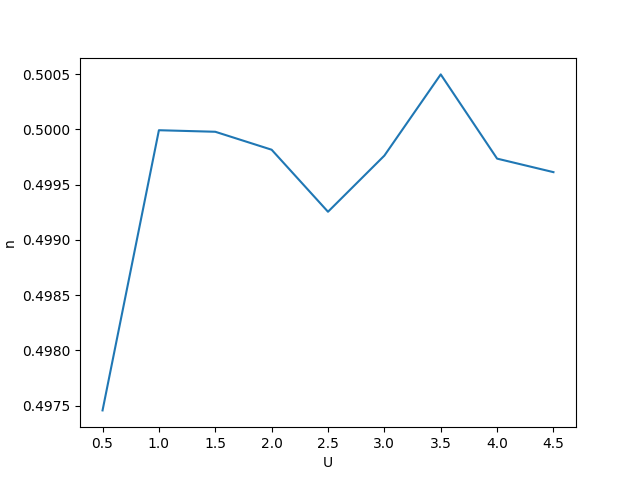
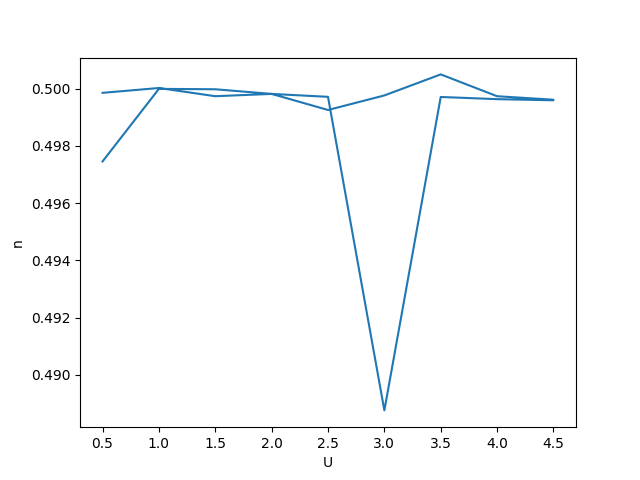
kinetic energy

diff --git a/matsubara_w/ipt_imag_HM.py b/matsubara_w/ipt_imag_HM.py
@@ -151,25 +151,37 @@ def epot(g_iw, s_iw, u, beta, w_n):
     return (s_iw * g_iw + u**2 / 4. / w_n**2).real.sum() / beta - beta * u**2 / 32. + u / 8
 
 
+# Parameters
+beta = 50.0 # 1/T
+t = 0.5     # Hopping
+Nwn = 256   # Num of freq: Check if it is consistent with FFT criteria
 
-beta = 50.0
-t = 0.5
-Nwn = 256 # check whther this no is consistent with the FFT criteria
+U_list = np.arange(0.5, 5.0, 0.125) # Interaction strength
+U_print = np.arange(0.5, 5.0, 0.5)  # Values when obs should be computed
+
+# Hysteresis
+hyst = 1
+if (hyst):
+    U_list = np.append(U_list, np.arange(5.0, 0.375, -0.125))
+    U_print = np.append(U_print, U_print[::-1])
+
+dw = 0.01                       # Real freq differential
+w = np.arange(-15, 15, dw)      # Real freq
+de = t/10                       # Energy differential
+e = np.arange(-2*t, 2*t, de)    # Energy
+
 tau, wn = gf. tau_wn_setup(beta,Nwn)
 G_iwn = gf.greenF(wn, sigma=0, mu=0, D=1)
 
-U_list = np.arange(0.5, 5.0, 0.125)
-U_print = np.arange(0.5, 5.0, 0.5)
-dw = 0.01
-w = np.arange(-15, 15, dw)
-
+# Observables
 dos_U = []
 n_U = []
+Ekin_U = []
 
 # Main loop
 for U in U_list:
     G_iwn, Sig_iwn = dmft_loop(U, t, G_iwn, wn, tau, mix=1, conv=1e-3)
-   
+    
     if U in U_print:
         # Analytic continuation using Pade
         g_w = gf.pade_continuation(G_iwn, wn, w, w_set=None)
@@ -180,10 +192,19 @@ for U in U_list:
         # Electron concentration for temp 1/beta and energy w_range
         n = np.sum(-g_w.imag/np.pi * gf.fermi_dist(w, beta) * dw)
         n_U.append(n)
+        
+        # Kinetic energy
+        Ekin = 0
+        # Sum over Matsubara freq
+        for n in range(Nwn):
+            # Integral in epsilong
+            Ekin += 1/beta * np.sum(de * e * gf.bethe_dos(t, e) * gf.g_k_w(e, wn[n], Sig_iwn[n], mu=0))
+        Ekin_U.append(Ekin.real)
     
 # Print DOS
-fig, axs = plt.subplots(len(U_print), sharex=True, sharey=True)
-for i in range(len(U_print)):
+plots = int(len(U_print)/2) if hyst else len(U_print)
+fig, axs = plt.subplots(plots, sharex=True, sharey=True)
+for i in range(plots):
     axs[i].set(xlabel=r'$\omega$')
     axs[i].plot(w, dos_U[i])      
 
@@ -191,10 +212,17 @@ fig.supylabel(r'$\rho(\omega)$')
 plt.savefig("./figures/dos.png")
 
 # Print n
-# Save occupation number
 plt.figure(0)
 plt.xlabel('U')
 plt.ylabel('n')
 plt.plot(U_print, n_U)
 plt.savefig("./figures/n.png")
+plt.close(0)
+
+# Print kinetic energy
+plt.figure(0)
+plt.xlabel('U')
+plt.ylabel(r'$E_K$')
+plt.plot(U_print, Ekin_U)
+plt.savefig("./figures/Ekin.png")
 plt.close(0)

diff --git a/matsubara_w/common.py b/matsubara_w/common.py
@@ -88,7 +88,9 @@ def greenF(w_n, sigma=0, mu=0, D=1):
     sq = np.sqrt((zeta)**2 - D**2)
     sig = np.sign(sq.imag * w_n)
     return 2. / (zeta + sig * sq)
-
+    
+def g_k_w(e_k, w_n, sigma, mu=0):
+    return 1/(1.j*w_n + mu - e_k - sigma)
 
 def semi_circle_hiltrans(zeta, D=1):
     """Calculate the Hilbert transform with a semicircular DOS
@@ -106,6 +108,10 @@ def semi_circle(energy, hopping):
     """Bethe lattice in inf dim density of states"""
     energy = np.asarray(energy).clip(-2 * hopping, 2 * hopping)
     return np.sqrt(4 * hopping**2 - energy**2) / (2 * np.pi * hopping**2)
+    
+def bethe_dos(t, e):
+    D = 2*t
+    return 2*np.sqrt(D**2 - e**2) / (np.pi * D**2)
 
 
 def gt_fouriertrans(g_tau, tau, w_n, tail_coef=(1., 0., 0.)):
